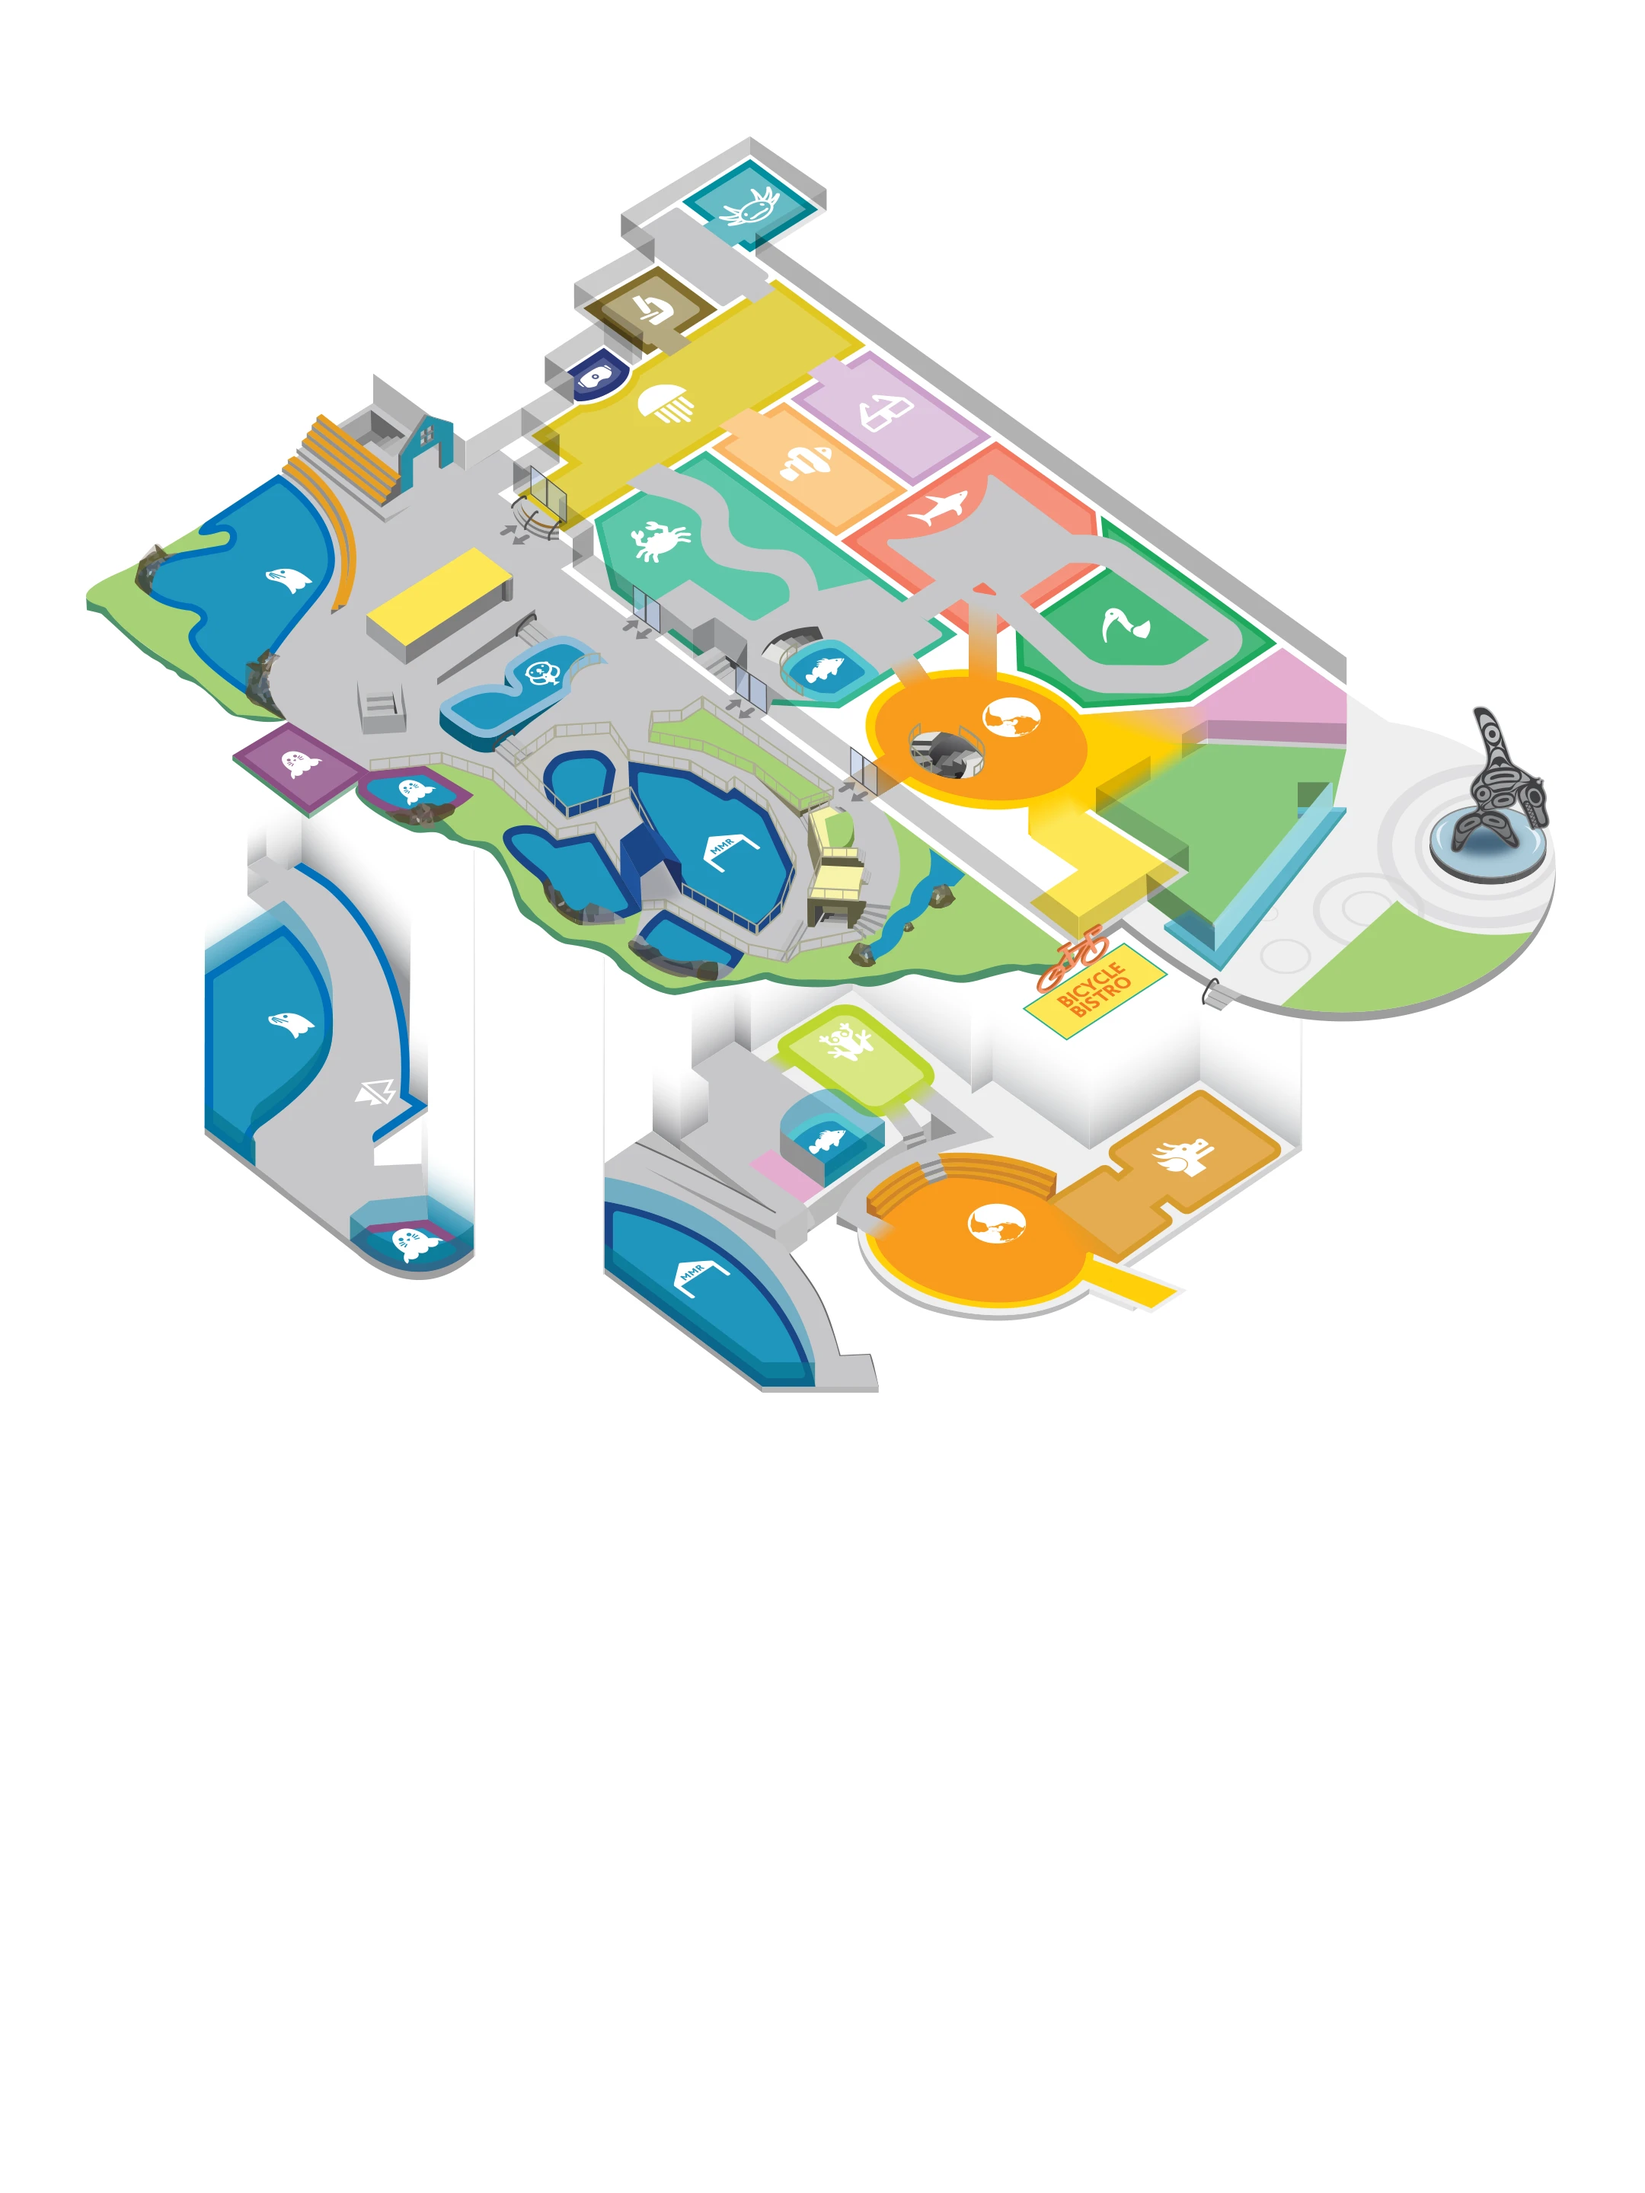
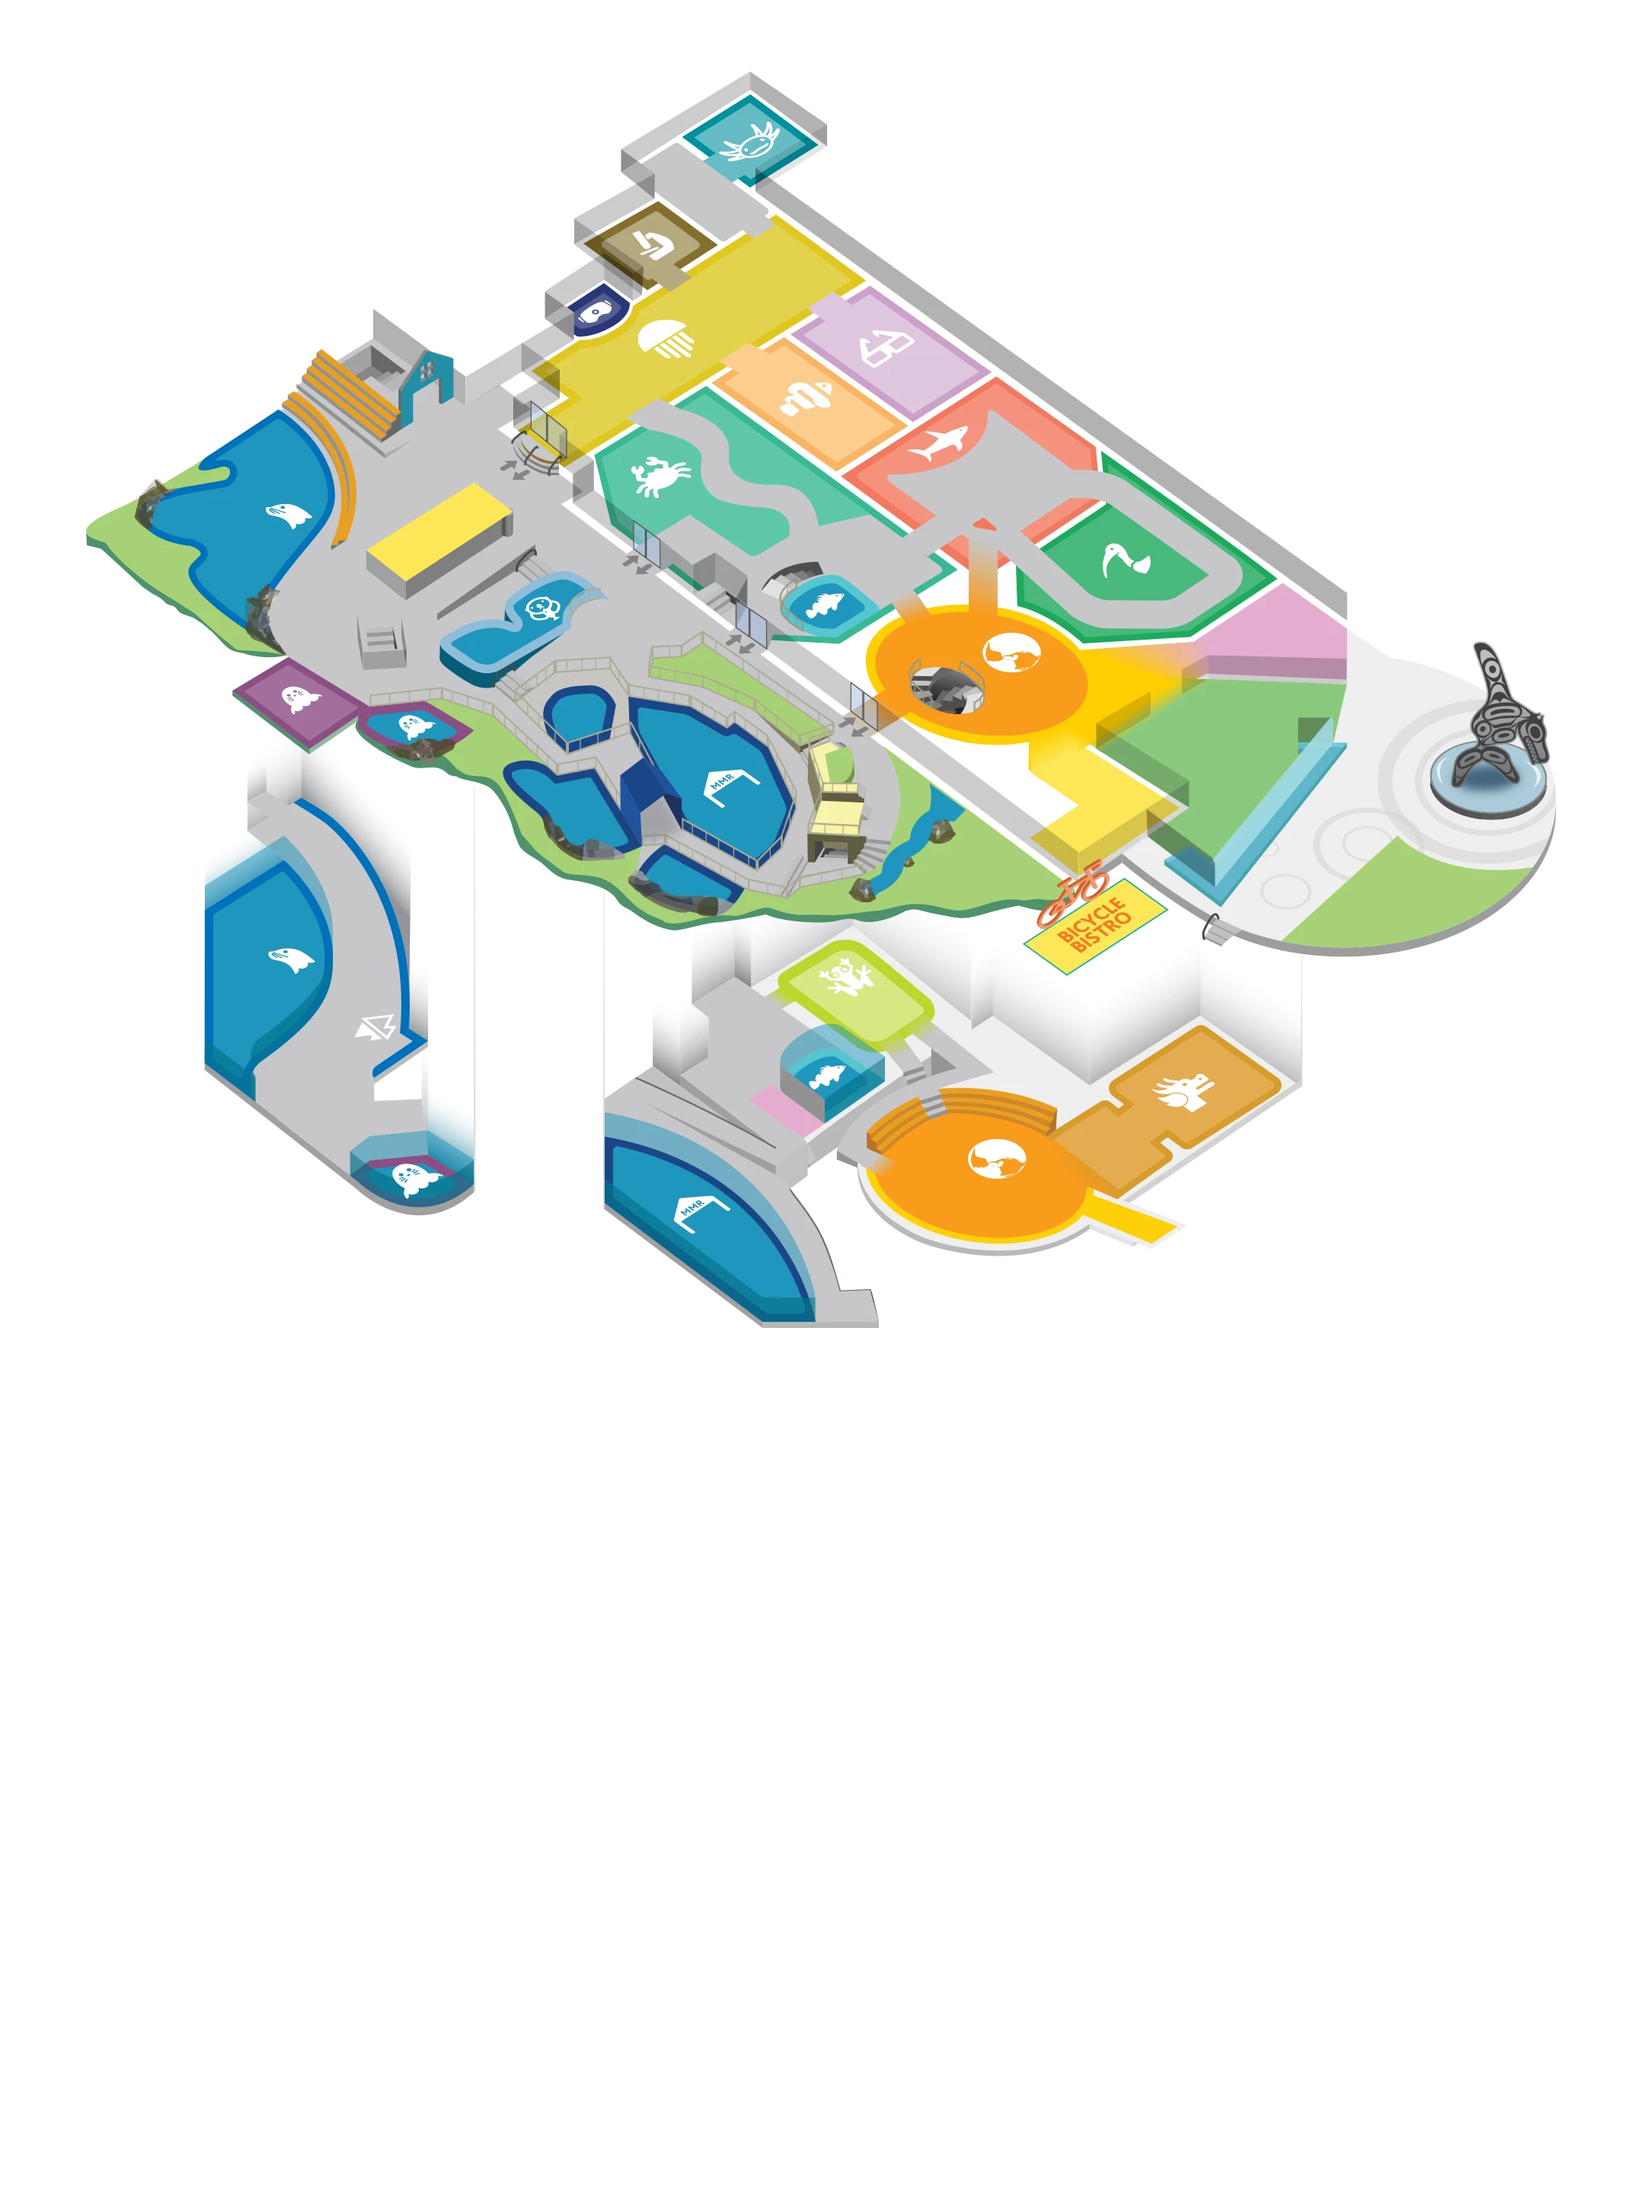
3% upwards shift applied to map and map overlay HTML elements

Changed region(s): [[0.031, 0.0312, 0.9616, 0.6562]]

diff --git a/vmap-01_exploration/index.html b/vmap-01_exploration/index.html
@@ -528,6 +528,10 @@
 
        activeYouAreHere contains the physical display location for this
        specific map module. Coordinates are intentionally easy to edit here.
+
+       Map-alignment note:
+       The illustrated base-map assets and all map-relative overlays were moved
+       upward by 3 percentage points during the Exploration alignment pass.
        ====================================================================== */
 
     const MAP_PROFILE = {
@@ -542,17 +546,17 @@
         galleryLegendRight:     { x: 46.4, y: 66.4, anchor: "top-left" },
         amenityLegend:          { x: 82.2, y: 67.9, anchor: "top-left" },
         footer:                 { x: 50.0, y: 97.3, anchor: "centre" },
-        exitArrow:              { x: 80.1, y: 32.0, anchor: "centre" },
-        exitLabel:              { x: 85.9, y: 32.0, anchor: "centre" },
-        enterArrow:             { x: 80.1, y: 34.8, anchor: "centre" },
-        enterLabel:             { x: 85.9, y: 34.8, anchor: "centre" },
-        youAreHereLegend:       { x: 81.6, y: 18.3, anchor: "centre" }
+        exitArrow:              { x: 80.1, y: 29.0, anchor: "centre" },
+        exitLabel:              { x: 85.9, y: 29.0, anchor: "centre" },
+        enterArrow:             { x: 80.1, y: 31.8, anchor: "centre" },
+        enterLabel:             { x: 85.9, y: 31.8, anchor: "centre" },
+        youAreHereLegend:       { x: 81.6, y: 15.3, anchor: "centre" }
       },
 
       activeYouAreHere: {
         visible: true,
         x: 36.0,
-        y: 20.1,
+        y: 17.1,
         anchor: "centre"
       },
 
@@ -649,71 +653,71 @@
        ====================================================================== */
 
     const AMENITY_MARKERS = [
-      { id: "accessible-viewing-01",  type: "accessible-viewing",  x: 56.9, y: 20.5 },
-      { id: "accessible-viewing-02",  type: "accessible-viewing",  x: 18.1, y: 30.1 },
-      { id: "accessible-viewing-03",  type: "accessible-viewing",  x: 39.0, y: 33.0 },
-      { id: "accessible-viewing-04",  type: "accessible-viewing",  x: 37.5, y: 38.2 },
+      { id: "accessible-viewing-01",  type: "accessible-viewing",  x: 56.9, y: 17.5 },
+      { id: "accessible-viewing-02",  type: "accessible-viewing",  x: 18.1, y: 27.1 },
+      { id: "accessible-viewing-03",  type: "accessible-viewing",  x: 39.0, y: 30.0 },
+      { id: "accessible-viewing-04",  type: "accessible-viewing",  x: 37.5, y: 35.2 },
 
-      { id: "accessible-washroom-01", type: "accessible-washroom", x: 64.9, y: 38.0 },
-      { id: "accessible-washroom-02", type: "accessible-washroom", x: 51.2, y: 49.5 },
-      { id: "accessible-washroom-03", type: "accessible-washroom", x: 69.3, y: 60.9 },
-      { id: "accessible-washroom-04", type: "accessible-washroom", x: 14.1, y: 39.9 },
+      { id: "accessible-washroom-01", type: "accessible-washroom", x: 64.9, y: 35.0 },
+      { id: "accessible-washroom-02", type: "accessible-washroom", x: 51.2, y: 46.5 },
+      { id: "accessible-washroom-03", type: "accessible-washroom", x: 69.3, y: 57.9 },
+      { id: "accessible-washroom-04", type: "accessible-washroom", x: 14.1, y: 36.9 },
 
-      { id: "elevator-01",            type: "elevator",            x: 45.2, y: 27.5 },
-      { id: "elevator-02",            type: "elevator",            x: 23.2, y: 29.6 },
-      { id: "elevator-03",            type: "elevator",            x: 58.4, y: 36.6 },
-      { id: "elevator-04",            type: "elevator",            x: 45.0, y: 47.8 },
-      { id: "elevator-05",            type: "elevator",            x: 23.1, y: 52.8 },
-      { id: "elevator-06",            type: "elevator",            x: 58.5, y: 58.9 },
+      { id: "elevator-01",            type: "elevator",            x: 45.2, y: 24.5 },
+      { id: "elevator-02",            type: "elevator",            x: 23.2, y: 26.6 },
+      { id: "elevator-03",            type: "elevator",            x: 58.4, y: 33.6 },
+      { id: "elevator-04",            type: "elevator",            x: 45.0, y: 44.8 },
+      { id: "elevator-05",            type: "elevator",            x: 23.1, y: 49.8 },
+      { id: "elevator-06",            type: "elevator",            x: 58.5, y: 55.9 },
 
-      { id: "food-and-beverage-01",   type: "food-and-beverage",   x: 30.0, y: 25.6 },
-      { id: "food-and-beverage-02",   type: "food-and-beverage",   x: 63.9, y: 40.5 },
-      { id: "food-and-beverage-03",   type: "food-and-beverage",   x: 66.1, y: 47.2 },
+      { id: "food-and-beverage-01",   type: "food-and-beverage",   x: 30.0, y: 22.6 },
+      { id: "food-and-beverage-02",   type: "food-and-beverage",   x: 63.9, y: 37.5 },
+      { id: "food-and-beverage-03",   type: "food-and-beverage",   x: 66.1, y: 44.2 },
 
-      { id: "genderless-washroom-01", type: "genderless-washroom", x: 23.1, y: 52.5 },
-      { id: "genderless-washroom-02", type: "genderless-washroom", x: 66.6, y: 38.5 },
-      { id: "genderless-washroom-03", type: "genderless-washroom", x: 52.8, y: 50.2 },
-      { id: "genderless-washroom-04", type: "genderless-washroom", x: 67.6, y: 60.5 },
+      { id: "genderless-washroom-01", type: "genderless-washroom", x: 23.1, y: 49.5 },
+      { id: "genderless-washroom-02", type: "genderless-washroom", x: 66.6, y: 35.5 },
+      { id: "genderless-washroom-03", type: "genderless-washroom", x: 52.8, y: 47.2 },
+      { id: "genderless-washroom-04", type: "genderless-washroom", x: 67.6, y: 57.5 },
 
-      { id: "gift-shop-01",           type: "gift-shop",           x: 75.7, y: 32.4 },
-      { id: "gift-shop-02",           type: "gift-shop",           x: 46.2, y: 52.6 },
+      { id: "gift-shop-01",           type: "gift-shop",           x: 75.7, y: 29.4 },
+      { id: "gift-shop-02",           type: "gift-shop",           x: 46.2, y: 49.6 },
 
-      { id: "lockers-01",             type: "lockers",             x: 49.6, y: 48.7 },
-      { id: "lockers-02",             type: "lockers",             x: 68.9, y: 58.1 },
+      { id: "lockers-01",             type: "lockers",             x: 49.6, y: 45.7 },
+      { id: "lockers-02",             type: "lockers",             x: 68.9, y: 55.1 },
 
-      { id: "stairs-01",              type: "stairs",              x: 22.5, y: 19.5 },
-      { id: "stairs-02",              type: "stairs",              x: 48.1, y: 28.4 },
-      { id: "stairs-03",              type: "stairs",              x: 42.5, y: 30.6 },
-      { id: "stairs-04",              type: "stairs",              x: 24.8, y: 33.4 },
-      { id: "stairs-05",              type: "stairs",              x: 57.6, y: 35.4 },
-      { id: "stairs-06",              type: "stairs",              x: 19.9, y: 39.4 },
-      { id: "stairs-07",              type: "stairs",              x: 49.9, y: 41.4 },
-      { id: "stairs-08",              type: "stairs",              x: 42.1, y: 51.0 },
-      { id: "stairs-09",              type: "stairs",              x: 48.0, y: 50.0 },
-      { id: "stairs-10",              type: "stairs",              x: 24.6, y: 54.5 },
-      { id: "stairs-11",              type: "stairs",              x: 57.5, y: 57.5 },
-      { id: "stairs-12",              type: "stairs",              x: 50.6, y: 62.9 },
+      { id: "stairs-01",              type: "stairs",              x: 22.5, y: 16.5 },
+      { id: "stairs-02",              type: "stairs",              x: 48.1, y: 25.4 },
+      { id: "stairs-03",              type: "stairs",              x: 42.5, y: 27.6 },
+      { id: "stairs-04",              type: "stairs",              x: 24.8, y: 30.4 },
+      { id: "stairs-05",              type: "stairs",              x: 57.6, y: 32.4 },
+      { id: "stairs-06",              type: "stairs",              x: 19.9, y: 36.4 },
+      { id: "stairs-07",              type: "stairs",              x: 49.9, y: 38.4 },
+      { id: "stairs-08",              type: "stairs",              x: 42.1, y: 48.0 },
+      { id: "stairs-09",              type: "stairs",              x: 48.0, y: 47.0 },
+      { id: "stairs-10",              type: "stairs",              x: 24.6, y: 51.5 },
+      { id: "stairs-11",              type: "stairs",              x: 57.5, y: 54.5 },
+      { id: "stairs-12",              type: "stairs",              x: 50.6, y: 59.9 },
 
-      { id: "stroller-wagon-parking-01", type: "stroller-wagon-parking", x: 49.0, y: 18.7 },
-      { id: "stroller-wagon-parking-02", type: "stroller-wagon-parking", x: 58.8, y: 27.8 },
-      { id: "stroller-wagon-parking-03", type: "stroller-wagon-parking", x: 50.3, y: 34.8 },
-      { id: "stroller-wagon-parking-04", type: "stroller-wagon-parking", x: 55.2, y: 48.6 },
+      { id: "stroller-wagon-parking-01", type: "stroller-wagon-parking", x: 49.0, y: 15.7 },
+      { id: "stroller-wagon-parking-02", type: "stroller-wagon-parking", x: 58.8, y: 24.8 },
+      { id: "stroller-wagon-parking-03", type: "stroller-wagon-parking", x: 50.3, y: 31.8 },
+      { id: "stroller-wagon-parking-04", type: "stroller-wagon-parking", x: 55.2, y: 45.6 },
 
-      { id: "washroom-01",            type: "washroom",            x: 42.5, y: 12.4 },
-      { id: "washroom-02",            type: "washroom",            x: 33.9, y: 19.5 },
-      { id: "washroom-03",            type: "washroom",            x: 40.3, y: 26.6 },
-      { id: "washroom-04",            type: "washroom",            x: 15.5, y: 38.9 },
-      { id: "washroom-05",            type: "washroom",            x: 65.2, y: 39.5 },
-      { id: "washroom-06",            type: "washroom",            x: 70.9, y: 43.5 },
-      { id: "washroom-07",            type: "washroom",            x: 67.2, y: 59.1 },
-      { id: "washroom-08",            type: "washroom",            x: 52.5, y: 61.7 },
+      { id: "washroom-01",            type: "washroom",            x: 42.5, y: 9.4 },
+      { id: "washroom-02",            type: "washroom",            x: 33.9, y: 16.5 },
+      { id: "washroom-03",            type: "washroom",            x: 40.3, y: 23.6 },
+      { id: "washroom-04",            type: "washroom",            x: 15.5, y: 35.9 },
+      { id: "washroom-05",            type: "washroom",            x: 65.2, y: 36.5 },
+      { id: "washroom-06",            type: "washroom",            x: 70.9, y: 40.5 },
+      { id: "washroom-07",            type: "washroom",            x: 67.2, y: 56.1 },
+      { id: "washroom-08",            type: "washroom",            x: 52.5, y: 58.7 },
 
-      { id: "water-station-01",       type: "water-station",       x: 34.4, y: 21.8 },
-      { id: "water-station-02",       type: "water-station",       x: 70.9, y: 39.2 },
-      { id: "water-station-03",       type: "water-station",       x: 54.2, y: 51.0 },
-      { id: "water-station-04",       type: "water-station",       x: 42.1, y: 28.8 },
+      { id: "water-station-01",       type: "water-station",       x: 34.4, y: 18.8 },
+      { id: "water-station-02",       type: "water-station",       x: 70.9, y: 36.2 },
+      { id: "water-station-03",       type: "water-station",       x: 54.2, y: 48.0 },
+      { id: "water-station-04",       type: "water-station",       x: 42.1, y: 25.8 },
 
-      { id: "guest-services-desk",    type: "guest-services",      x: 52.8, y: 32.7, className: "guest-services-marker" }
+      { id: "guest-services-desk",    type: "guest-services",      x: 52.8, y: 29.7, className: "guest-services-marker" }
     ];
 
     /* ======================================================================
